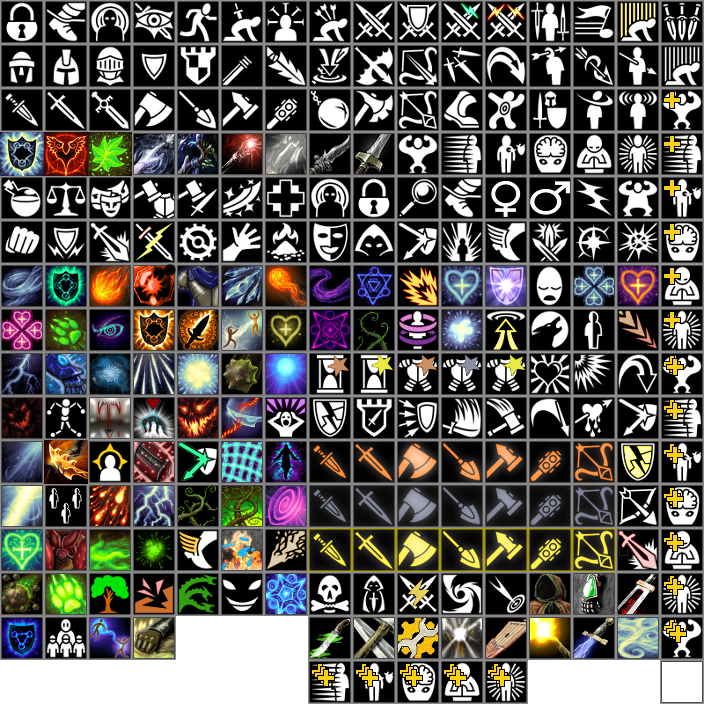
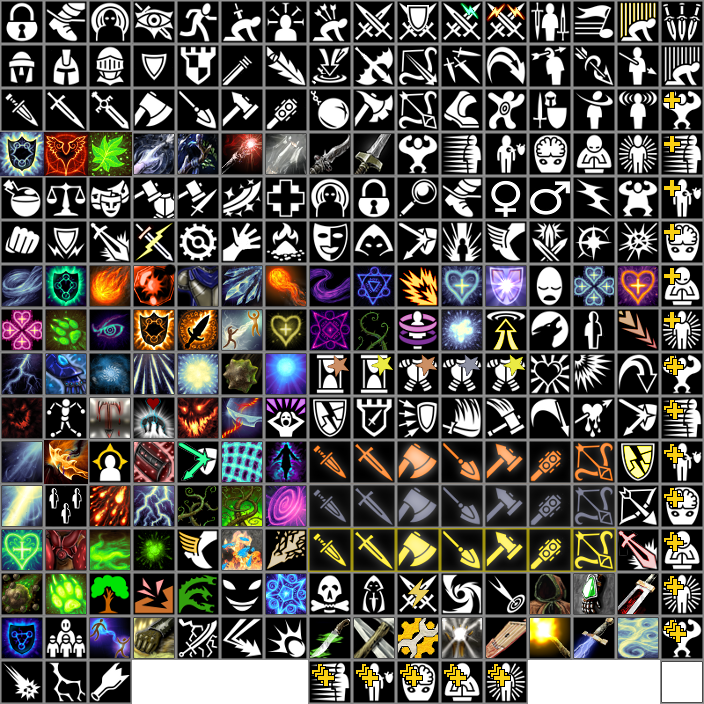
berserker specialization is now fully implemented

Changed region(s): [[0.25, 0.875, 0.4375, 0.9375], [0.0, 0.9375, 0.1875, 1.0]]

diff --git a/core/scripts/abilities/rage.js b/core/scripts/abilities/rage.js
@@ -1,0 +1,55 @@
+function onActivate(game, slot) {
+	var ability = slot.getAbility();
+	var parent = slot.getParent();
+	
+	var lvls = parent.getRoles().getLevel("Berserker");
+	
+	var duration = 3 + parseInt(lvls / 2);
+	
+	if (parent.getAbilities().has("ImprovedRage"))
+		duration += 2;
+	
+	if (parent.getAbilities().has("EpicRage"))
+		var strBonus = 8;
+	else if (parent.getAbilities().has("ImprovedRage"))
+		var strBonus = 6;
+	else
+		var strBonus = 3;
+	
+	slot.setActiveRoundsLeft(duration);
+	slot.activate();
+	
+	var effect = slot.createEffect("effects/rage");
+	effect.setDuration(duration);
+	effect.setTitle(ability.getName());
+	
+	effect.getBonuses().addBonus('Str', 'Stackable', strBonus);
+	
+	effect.getBonuses().addBonus('OneHandedMeleeWeaponDamage', 'Morale', 25);
+	effect.getBonuses().addBonus('TwoHandedMeleeWeaponDamage', 'Morale', 25);
+	
+	if (parent.getAbilities().has("UnstoppableRage")) {
+		effect.getBonuses().add('ImmobilizationImmunity');
+		effect.getBonuses().add('CriticalHitImmunity');
+		
+		effect.getBonuses().addBonus('SpellResistance', 10 + 2 * lvls);
+	}
+	
+	if (parent.getAbilities().has("EpicRage")) {
+		effect.getBonuses().addBonus('ActionPoint', 5 + 2 * lvls);
+	}
+	
+	effect.getBonuses().addPenalty('Attack', 'Stackable', -25);
+	effect.getBonuses().addPenalty('ArmorClass', 'Stackable', -25);
+	parent.applyEffect(effect);
+	
+	var anim = game.getBaseAnimation("blast");
+	var position = parent.getScreenPosition();
+	anim.setPosition(position.x, position.y - 20);
+	anim.setRed(1.0);
+	anim.setGreen(0.2);
+	anim.setBlue(0.2);
+		
+	game.runAnimationNoWait(anim);
+	game.lockInterface(anim.getSecondsRemaining());
+}

diff --git a/core/scripts/effects/rage.js b/core/scripts/effects/rage.js
@@ -1,0 +1,14 @@
+function onRemove(game, effect) {
+	var target = effect.getTarget();
+	
+	if (!target.getAbilities().has("SteadfastRage")) {
+		var newEffect = effect.getSlot().createEffect();
+		newEffect.setTitle("Rage Exhaustion");
+		newEffect.setDuration(game.dice().rand(3, 6));
+	
+		newEffect.getBonuses().addPenalty('Str', 'Stackable', -2);
+		newEffect.getBonuses().addPenalty('ActionPoint', 'Stackable', -25);
+	
+		target.applyEffect(newEffect);
+	}
+}
